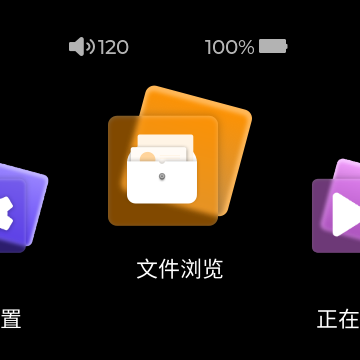
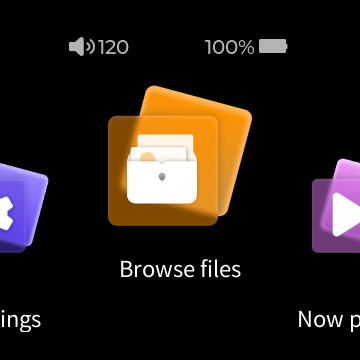
docs: regenerate UI screenshots in English
The device now defaults to the English UI, so the doc images should match:
- 04-main-menu.png: English carousel (Settings / Browse files / Now playing)
  instead of the old Chinese labels (设置 / 文件浏览 / 正在播放).
- 03-language.png: first-boot language wizard with English selected (options
  stay in their native scripts, as on hardware; the 确定 button is the fallback
  locale until you confirm — it can't be English pre-confirm since the wizard
  only shows while LANGUAGE is out of range).
- 02-low-battery.png: the English critically-low-battery screen.

Captured by driving sysconfig.db LANGUAGE and the cw221X-bat capacity stub, then
restoring LANGUAGE=2 / capacity=100. STATUS.md captions updated to match.

Claude-Session: https://claude.ai/code/session_01QyKmVhFv3YJhFME3uaXzZw

Changed region(s): [[0.3361, 0.7028, 0.6722, 0.7944], [0.825, 0.8556, 1.0, 0.9167], [0.0, 0.8556, 0.1222, 0.9472]]

diff --git a/docs/STATUS.md b/docs/STATUS.md
@@ -26,8 +26,8 @@ boots go **straight to the main menu** (~24 s), skipping the wizard.
 | | screen |
 |---|---|
 | ![splash](images/01-splash.png) | Boot splash (SNOWSKY / FIIO OWNED BRAND) |
-| ![low battery](images/02-low-battery.png) | Low-battery shutdown (before the battery sysfs fix) |
-| ![language](images/03-language.png) | First-boot language wizard (简/繁/EN/日 + 确定) |
+| ![low battery](images/02-low-battery.png) | Critically-low-battery warning (before the battery sysfs fix) |
+| ![language](images/03-language.png) | First-boot language wizard, **English** selected (options stay in their native scripts; the 确定 button is the fallback locale until you confirm) |
 | ![main](images/04-main-menu.png) | **Main menu** carousel (Settings / Browse files / Now playing), battery 100%, volume 120 |
 | ![files](images/05-file-browser.png) | **File browser** at `/tmp/sdcard` showing the `Test Artist` folder from `./sdcard` |
 | ![tracks](images/06-sd-tracks.png) | Two levels in — `/tmp/sdcard/Test Artist/Greatest Hits` listing the `.wav` tracks |
